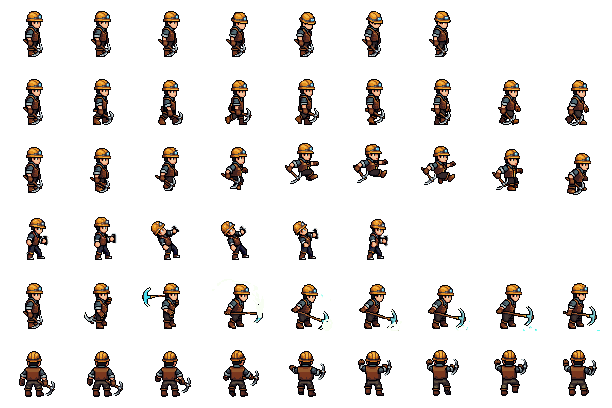
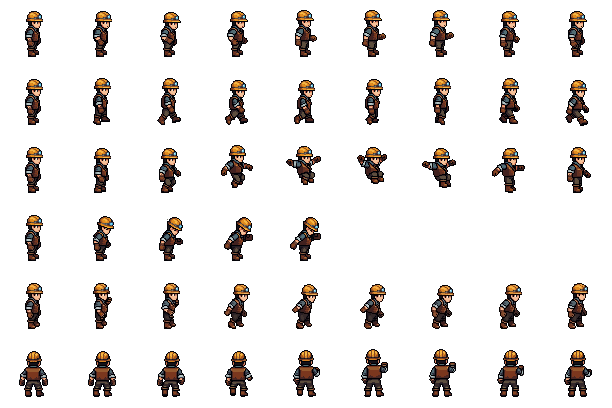
Empty-handed miner: tools come out only when swung
The miner sprite no longer carries a pickaxe everywhere. The body is redrawn
empty-handed (new PixelLab state; the chop keeps the original timing with the
pickaxe painted out), and the swung tool is drawn in hand from a per-frame
pose table: the held pick, hammer or sword, else your best hotbar pickaxe.
Each tier shows its own icon, it sits behind the miner on the wind-up and
leaves a smear on the strike. Placing blocks and bare fists show no tool.

Adds DESIGN.md with the light-survival direction and roadmap.

diff --git a/src/render.ts b/src/render.ts
@@ -14,6 +14,27 @@ import { heldDef } from './state';
 
 const ROW = { idle: 0, walk: 1, jump: 2, hurt: 3, mine: 4, climb: 5 } as const;
 const CELL = 68;
+/** the miner breathes on the calm idle frames only (the rest of that clip raises a fist) */
+const IDLE_FRAMES = [0, 1, 2, 2, 1, 0] as const;
+/**
+ * Where the swung tool sits on each frame of the swing row, facing right: the grip in the 68px
+ * cell, and the angle the handle points from the grip toward the head (radians, y down).
+ * Frames 1-2 wind up over the shoulder, 3-4 strike, 5-8 recover.
+ */
+const SWING_POSE: readonly (readonly [number, number, number])[] = [
+  [31, 42, 1.0],
+  [40, 27, -1.9],
+  [38, 27, -2.8],
+  [40, 40, -0.9],
+  [38, 41, 0.5],
+  [41, 42, 0.35],
+  [41, 42, 0.3],
+  [41, 42, 0.25],
+  [40, 41, 0.3],
+];
+/** every tool icon has its grip near the bottom left and its head toward the top right */
+const TOOL_GRIP = [5, 27] as const;
+const TOOL_SIZE = 28;
 const TREE_SPRITES = ['oak', 'pine1', 'birch', 'pine2'];
 
 interface Ambient {
@@ -899,7 +920,7 @@ export class Renderer {
     let frame = 0;
     switch (pl.anim) {
       case 'idle':
-        frame = 1 + (Math.floor(pl.animT * 6) % 6);
+        frame = IDLE_FRAMES[Math.floor(pl.animT * 4) % IDLE_FRAMES.length];
         break;
       case 'walk':
         frame = 1 + (Math.floor(pl.animT * 12) % 8);
@@ -918,14 +939,19 @@ export class Renderer {
     }
     if (pl.dead) {
       row = ROW.hurt;
-      frame = Math.min(5, 2 + Math.floor(pl.deadT * 4));
+      frame = Math.min(4, 2 + Math.floor(pl.deadT * 4));
     } else if (pl.hurtT > 0.12 && !pl.swinging) {
       row = ROW.hurt;
-      frame = 2;
+      frame = 3;
     }
     const footY = Math.round(pl.y + pl.h - camY);
     const cx = Math.round(pl.cx - camX);
     const flip = pl.facing < 0 && pl.anim !== 'climb';
+    // the miner's hands are empty: a tool only comes out for the swing that uses it
+    const swingDef = !pl.dead && row === ROW.mine && pl.swingTool ? ITEMS[pl.swingTool] : undefined;
+    const pose = swingDef ? this.swingPose(pl.swingT) : null;
+    // on the wind-up the tool is over the shoulder, behind the miner
+    if (swingDef && pose && pose.a < -1.3) this.drawSwingTool(ctx, swingDef, pose, cx, footY, pl.facing);
     ctx.save();
     if (pl.dead) ctx.globalAlpha = Math.max(0, 1 - pl.deadT * 0.3);
     if (flip) {
@@ -934,8 +960,9 @@ export class Renderer {
       ctx.drawImage(A.miner, frame * CELL, row * CELL, CELL, CELL, 0, 0, CELL, CELL);
     } else ctx.drawImage(A.miner, frame * CELL, row * CELL, CELL, CELL, cx - 33, footY - 57, CELL, CELL);
     ctx.restore();
+    if (swingDef && pose && pose.a >= -1.3) this.drawSwingTool(ctx, swingDef, pose, cx, footY, pl.facing);
     if (pl.dead || pl.climbing) return;
-    // held item: torches are carried, weapons swing in an arc
+    // held items that stay visible: the torch you carry, the rod you fish with, the bow you draw
     const hd = heldDef(g.p);
     if (!hd) return;
     if (hd.kind === 'rod' && !pl.swinging) {
@@ -955,16 +982,6 @@ export class Renderer {
       const f = Math.floor(g.time * 12) % 3;
       ctx.fillStyle = ['#ffd75a', '#ffb02a', '#fff0a0'][f];
       ctx.fillRect(hx + 7 + (f === 1 ? -1 : 0), hy - 2, 3, 3);
-    } else if (pl.swinging && (hd.kind === 'sword' || hd.kind === 'hammer')) {
-      const s = iconSrc(hd.icon);
-      const t = Math.min(1, pl.swingT);
-      const a = (-2.2 + t * 2.9) * pl.facing;
-      ctx.save();
-      ctx.translate(cx + pl.facing * 4, footY - 24);
-      ctx.rotate(a + (pl.facing < 0 ? Math.PI / 2 : 0));
-      if (pl.facing < 0) ctx.scale(-1, 1);
-      ctx.drawImage(s.img, s.sx, s.sy, s.size, s.size, -2, -26, 28, 28);
-      ctx.restore();
     } else if (hd.kind === 'bow' && pl.swinging) {
       const s = iconSrc(hd.icon);
       ctx.save();
@@ -973,6 +990,50 @@ export class Renderer {
       ctx.drawImage(s.img, s.sx, s.sy, s.size, s.size, -10, -12, 24, 24);
       ctx.restore();
     }
+  }
+
+  /** the tool's grip and angle at a point in the swing, eased between the drawn frames */
+  private swingPose(swingT: number): { x: number; y: number; a: number; f: number } {
+    const f = Math.max(0, Math.min(8, swingT * 9));
+    const i = Math.min(7, Math.floor(f));
+    const k = f - i;
+    const p0 = SWING_POSE[i];
+    const p1 = SWING_POSE[i + 1];
+    return { x: p0[0] + (p1[0] - p0[0]) * k, y: p0[1] + (p1[1] - p0[1]) * k, a: p0[2] + (p1[2] - p0[2]) * k, f };
+  }
+
+  private drawSwingTool(
+    ctx: CanvasRenderingContext2D,
+    def: { icon: IconRef; glow?: string },
+    pose: { x: number; y: number; a: number; f: number },
+    cx: number,
+    footY: number,
+    facing: number,
+  ): void {
+    const s = iconSrc(def.icon);
+    const k = TOOL_SIZE / 32;
+    ctx.save();
+    ctx.translate(cx, footY);
+    if (facing < 0) ctx.scale(-1, 1);
+    ctx.translate(Math.round(pose.x - 33), Math.round(pose.y - 57));
+    // the strike leaves a smear along the head's path
+    if (pose.f > 2.3 && pose.f < 4.8) {
+      const back = this.swingPose(Math.max(0, pose.f - 1.1) / 9).a;
+      const fade = 1 - Math.abs(pose.f - 3.4) / 1.5;
+      ctx.globalAlpha = Math.max(0, fade) * 0.45;
+      ctx.strokeStyle = def.glow ?? '#f4f0e6';
+      ctx.lineWidth = 5;
+      ctx.lineCap = 'round';
+      ctx.beginPath();
+      // the head sits about 22px from the grip on a 32px icon
+      ctx.arc(0, 0, 22 * k, back, pose.a, false);
+      ctx.stroke();
+      ctx.globalAlpha = 1;
+    }
+    // icons point their handle at -45 degrees; turn it to the pose's angle about the grip
+    ctx.rotate(pose.a + Math.PI / 4);
+    ctx.drawImage(s.img, s.sx, s.sy, s.size, s.size, -TOOL_GRIP[0] * k, -TOOL_GRIP[1] * k, TOOL_SIZE, TOOL_SIZE);
+    ctx.restore();
   }
 
   // ------------------------------------------------------------------ ambient motes, drips, fireflies

diff --git a/src/game.ts b/src/game.ts
@@ -23,6 +23,7 @@ import {
   takeItems,
   hasAll,
   heldDef,
+  bestHotbarPick,
   itemValue,
   nextRelic,
   bestPick,
@@ -1425,6 +1426,8 @@ export class Game {
       pl.swingHit = false;
       pl.swingTarget = null;
       const sword = kind === 'sword';
+      // the tool comes out of your pack for the swing: the one in hand, or your best pickaxe
+      pl.swingTool = tool && hd ? hd.id : (bestHotbarPick(this.p)?.id ?? null);
       pl.attack = sword || this.enemyNearCursor() || !h.ok;
       if (!pl.attack) {
         pl.swingTarget = { x: h.x, y: h.ty };
@@ -1934,6 +1937,7 @@ export class Game {
     pl.swinging = true;
     pl.swingT = 0.4;
     pl.swingHit = true;
+    pl.swingTool = null;
   }
 
   private placeObj(o: Obj, x: number, y: number): boolean {
@@ -2125,6 +2129,7 @@ export class Game {
     pl.attack = true;
     pl.swingT = 0.3;
     pl.swingHit = true;
+    pl.swingTool = null;
     audio.play('bow');
   }
 

diff --git a/src/entities.ts b/src/entities.ts
@@ -136,6 +136,8 @@ export class Player implements Body {
   swinging = false;
   swingHit = false;
   swingTarget: { x: number; y: number } | null = null;
+  /** the item drawn in hand for this swing (null: bare fists, or placing something) */
+  swingTool: string | null = null;
   attack = false;
   invuln = 0;
   hurtT = 0;

diff --git a/tools/pack_player.py b/tools/pack_player.py
@@ -1,24 +1,42 @@
 """Pack the PixelLab miner animations into one 68x68-cell sheet (one row per animation).
 
-Rows: idle, walk, jump, hurt, mine, climb. 48px frames are centred into the 68px cell
-(+10,+10) and nudged so the feet sit on the same baseline (y=57).
+Rows: idle, walk, jump, hurt, swing, climb. The miner is drawn empty-handed: tools are
+drawn by the game, in hand, only while they are swung (see drawPlayer in src/render.ts).
+
+Sources (PixelLab character 18f3a3ef..., state "Empty Hands"):
+- idle3 / walk3 / jump3 / hurt3 / climb3: animations of the empty-handed state
+- chop: the original pickaxe "mine" animation with the pickaxe painted out (edit_animation),
+  so the swing keeps the timing the game was tuned for
+
+All frames are 68x68 with the feet on y=57. Frames listed in SKIP are left out (hurt3's
+last two frames carry stray debris pixels).
 """
 import glob
+import os
 from PIL import Image
 
-BASE = 'art_raw/player/char/Idle/animations/'
-ROWS = [('idle2', 'east', 0), ('walk2', 'east', 0), ('jump2', 'east', 0), ('hurt', 'east', 2), ('mine', 'east', 0), ('climb2', 'north', 0)]
+BASE = 'art_raw/player/empty/'
+ROWS = [('idle3', 'east'), ('walk3', 'east'), ('jump3', 'east'), ('hurt3', 'east'), ('chop', 'east'), ('climb3', 'north')]
+SKIP = {('hurt3', 5), ('hurt3', 6)}
 CELL = 68
-cols = 9
-sheet = Image.new('RGBA', (CELL * cols, CELL * len(ROWS)))
-for r, (name, d, dy) in enumerate(ROWS):
-    files = sorted(glob.glob(f'{BASE}{name}/{d}/*.png'))
-    for c, f in enumerate(files):
+COLS = 9
+
+
+def frame_no(path: str) -> int:
+    return int(os.path.basename(path)[:-4])
+
+
+sheet = Image.new('RGBA', (CELL * COLS, CELL * len(ROWS)))
+for r, (name, d) in enumerate(ROWS):
+    files = sorted(glob.glob(f'{BASE}{name}/{d}/*.png'), key=frame_no)
+    n = 0
+    for f in files:
+        c = frame_no(f)
+        if (name, c) in SKIP or c >= COLS:
+            continue
         im = Image.open(f).convert('RGBA')
-        if im.width == 48:
-            ox, oy = 10, 10 + dy
-        else:
-            ox, oy = 0, 0
-        sheet.alpha_composite(im, (c * CELL + ox, r * CELL + oy))
-    print(name, len(files))
+        assert im.size == (CELL, CELL), (f, im.size)
+        sheet.alpha_composite(im, (c * CELL, r * CELL))
+        n += 1
+    print(name, n)
 sheet.save('public/assets/player/miner.png')

diff --git a/DESIGN.md b/DESIGN.md
@@ -1,0 +1,54 @@
+# Deepwick: design direction
+
+A light-survival mining game. Not a Terraria clone: the thing you are really
+gathering, spending and defending is **light**.
+
+## The pitch
+
+The mining town of Deepwick lived around the Wick, a great lantern whose flame
+kept the dark in the mountain. Something far below (the Gloamheart) has been
+drinking the light. The Wick is cold, the town is empty, and at night the Gloam
+rolls down the valley.
+
+You wake beside the cold Wick with nothing. Every trip underground is an
+expedition into the dark: your lantern oil is your clock, darkness wears you
+down, and what you bring back up (ore for tools, and anything that glows for
+the flame) decides how far the light reaches tomorrow.
+
+## Pillars
+
+1. **Light is life.** Being in the dark is the danger, not just the enemies in
+   it. Light sources you place stay lit and make the mountain safer over time.
+2. **The Wick is the heart.** One hub to feed and grow. Its flame level drives
+   progression: the safe radius at night, which settlers come back, what they
+   offer. No abstract deeds.
+3. **Expeditions, not just digging.** Push down, light a waypoint, push again,
+   get home before the oil runs out. Depth is gated by light and nerve as much
+   as by pickaxe tier.
+4. **Readable and welcoming.** A clear next goal on screen at all times,
+   difficulty choices, controller support, and juicy feedback.
+
+## Core loop
+
+- **Day, surface:** craft, cook, fish, trade, feed the Wick.
+- **Descent:** mine ore and collect glowing things (glowcaps, jade, amethyst,
+  lumenite, glowfin...). Plant Wickposts to make lit, safe waypoints you can
+  travel back to.
+- **Return:** refine glow into Lumen at the Wick, grow the flame, unlock the
+  next settler or upgrade, forge better tools and lanterns.
+- **Night:** the Gloam comes down the valley. Inside the Wick's light you are
+  safe; outside it the Hollows hunt.
+
+## Roadmap (one review cycle each, every cycle ends shippable)
+
+- [x] Cycle 1: empty-handed miner; tools drawn in hand only when held and swung
+      (each pick tier looks different). Playthrough bug fixes.
+- [ ] Cycle 2: the Wick. Lumen refining, flame levels, settlers arrive by flame
+      level (deeds removed), Wick safe radius at night, Wickposts (lit
+      waypoints with fast travel back to the Wick).
+- [ ] Cycle 3: darkness. A Nerve meter that drains in the dark and recovers in
+      light; Gloamlings that only exist in darkness; difficulty modes
+      (Hearthkeeper, Delver, Gloamwalker).
+- [ ] Cycle 4: guidance. Journal of goals that walks the loop, better
+      onboarding, gamepad support.
+- [ ] Cycle 5+: review cycles: balance, polish, audio, performance, content.
